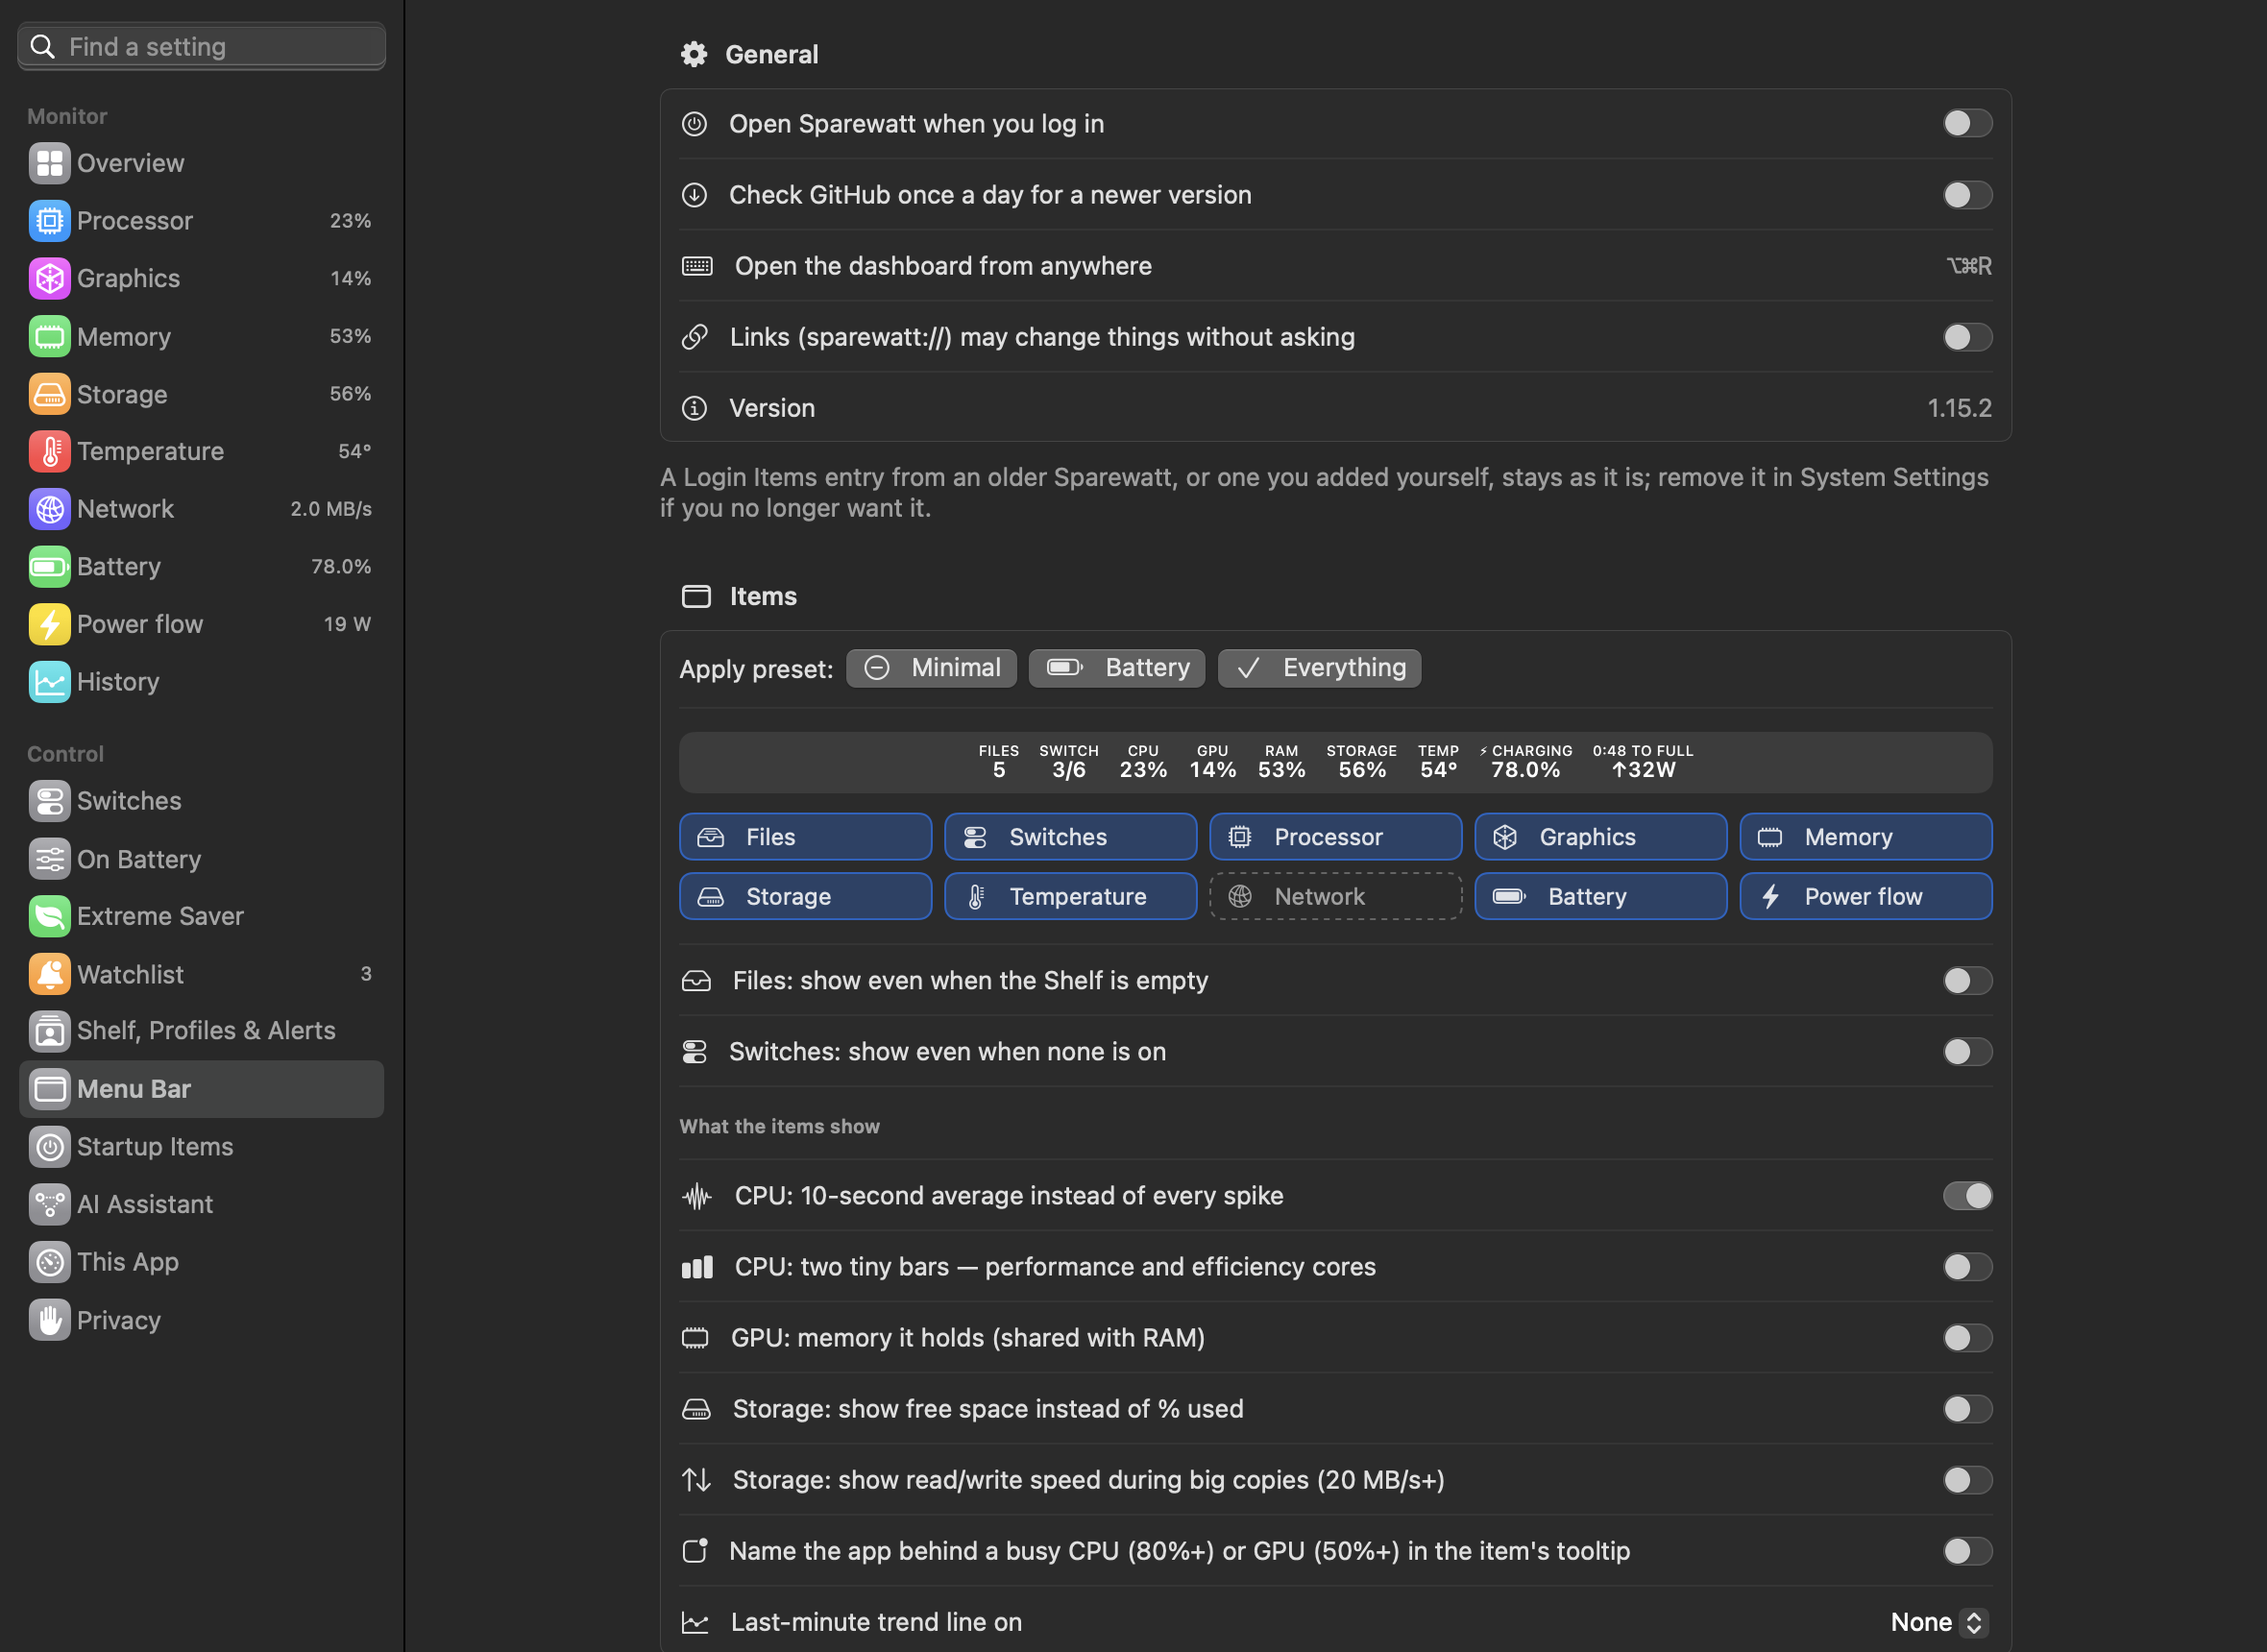
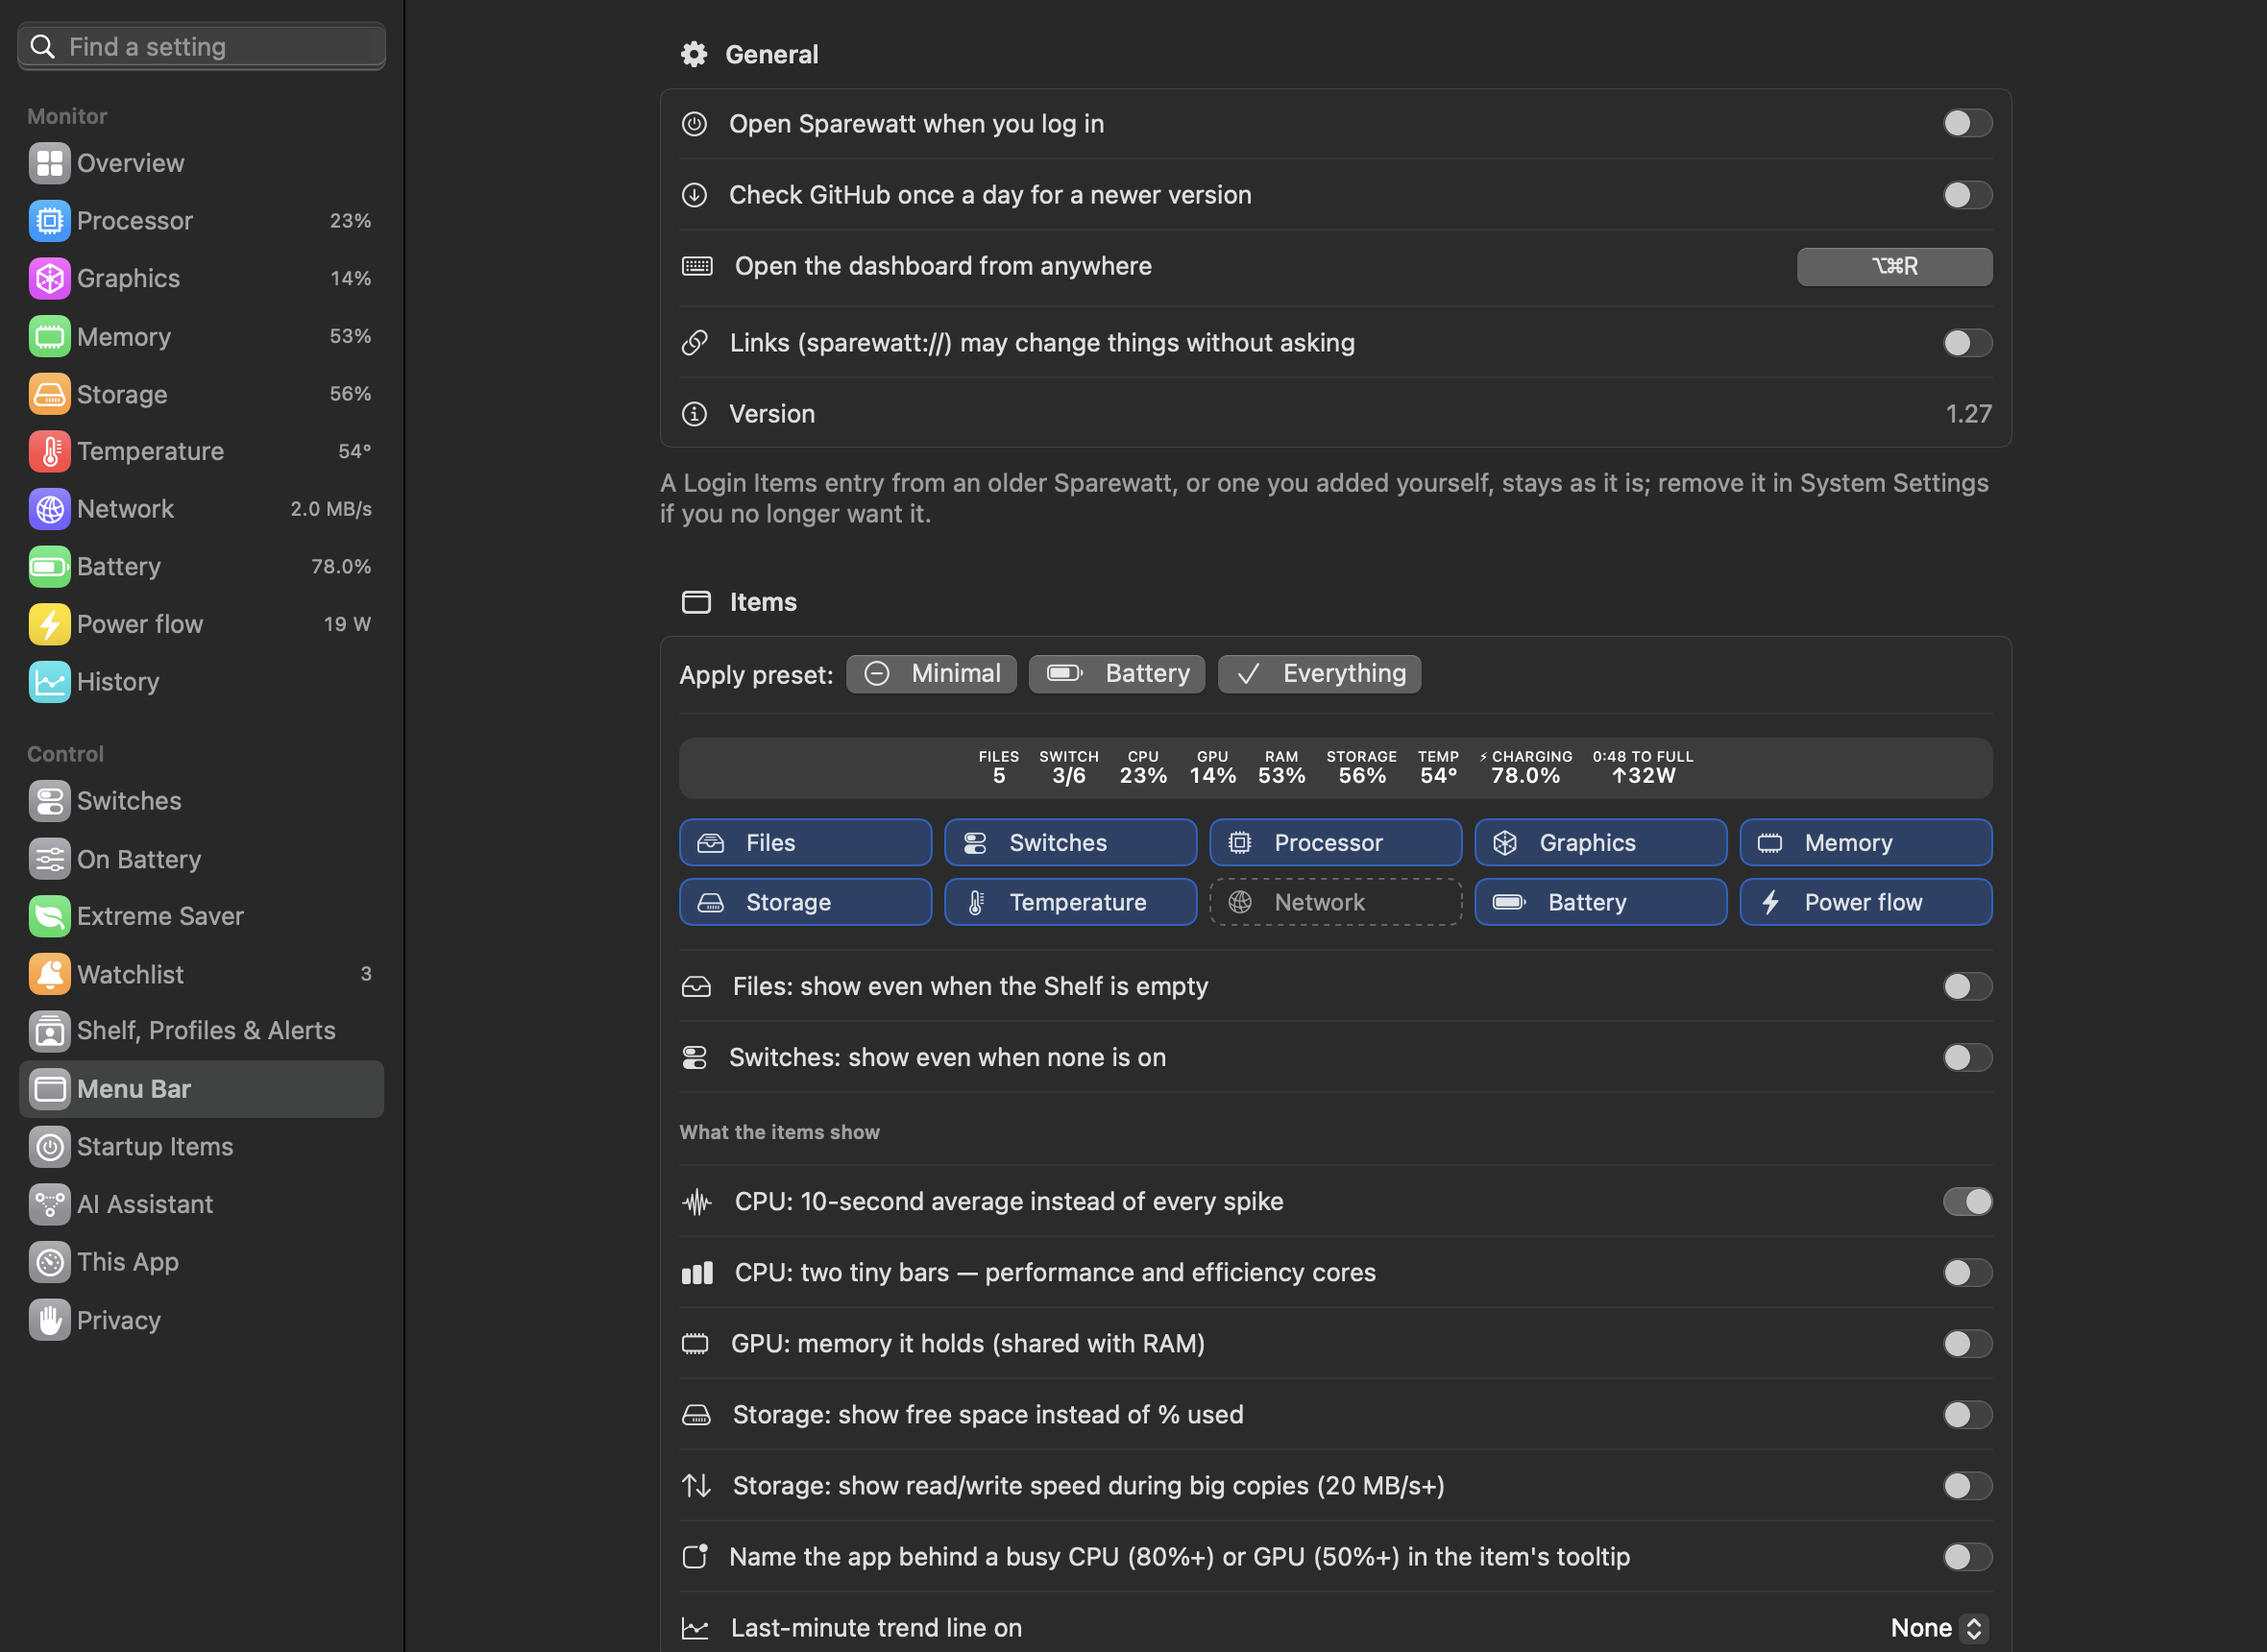
Sparewatt 1.27: Keyboard shortcuts you can change (how to record, turn off and reset; which keys are refused and why); Menu Bar General row, Controls guide, READMEs and changelog; Menu Bar page image

diff --git a/reference/Keyboard shortcuts.md b/reference/Keyboard shortcuts.md
@@ -1,6 +1,6 @@
 # Keyboard shortcuts
 
-These work from any app.
+These work from any app. They are the defaults: you can change each one, or turn it off.
 
 | Keys | Does |
 |---|---|
@@ -8,10 +8,28 @@ These work from any app.
 | ⌥⌘V | open the Files panel (Latest File, Shelf, clipboard) |
 | ⌥⌘E | turn Extreme Saver on or off (not on a Mac with no battery) |
 
-The same list is on Dashboard → **Shelf, Profiles & Alerts**.
+## Changing them
+
+Dashboard → **Shelf, Profiles & Alerts** → *Keyboard shortcuts* lists all three; the dashboard's is also on Dashboard →
+**Menu Bar** → *General*.
+
+- Click a shortcut, then press the new keys. **Esc** cancels; **Delete** turns that shortcut off (it then reads *Off*).
+- The arrow beside a changed shortcut puts back its default.
+- A shortcut needs **⌥** or **⌃** (or **⌘⇧** together), so it doesn't take a key you type or an app's own menu
+  command. A function key (F1–F20) may be used on its own.
+- Keys macOS itself uses are refused, with the reason: screenshots (⌘⇧3 to ⌘⇧6), Lock Screen (⌃⌘Q), Emoji & Symbols
+  (⌃⌘Space), switching input sources (⌃Space, ⌃⌥Space), Force Quit (⌥⌘Esc), the Dock (⌥⌘D), the Help menu (⌘⇧/),
+  Mission Control and Spaces (⌃ with an arrow). So is a shortcut another of Sparewatt's already uses.
+- If macOS doesn't accept a shortcut (another app may already have it), Sparewatt says so and keeps the old one.
+
+While you are pressing new keys, none of Sparewatt's shortcuts fire. The shortcuts are part of the
+[settings export](../features/11%20Dashboard%2C%20history%20and%20this%20app.md#your-settings-export-import-welcome-again),
+so an imported file brings its shortcuts with it. They need no permission in System Settings.
+
+## Other keys
 
 In the menu bar: hover a part to open its panel, right-click for the dashboard, settings, Extreme Saver and Quit.
 With grouping off, hold ⌘ and drag an item to move it.
 
-To run these from Shortcuts, a script or your own key combination, use
+To run these from Shortcuts or a script, use
 [links for Shortcuts and scripts](Links%20for%20Shortcuts%20and%20scripts.md) (`sparewatt://…`).

diff --git a/features/01 Menu bar.md b/features/01 Menu bar.md
@@ -159,7 +159,7 @@ Dashboard → **Menu Bar** has six sections, each one kind of setting:
 
 | Section | Holds |
 |---|---|
-| General | *Open Sparewatt when you log in*, the daily update check, the ⌥⌘R shortcut, the version |
+| General | *Open Sparewatt when you log in*, the daily update check, the dashboard's [shortcut](../reference/Keyboard%20shortcuts.md) (⌥⌘R unless you change it), the version |
 | Items | *Apply preset*, which items show, and what each item shows (CPU average, graphics memory, free space, trend line…) |
 | Look | grouping, the outline, words or icons, text size, update speed |
 | Colours | drain colours, colours by value, and storage turning orange when memory spills to the SSD |
@@ -305,7 +305,7 @@ screen, or not shown by macOS) and a button that opens System Settings → Menu 
 
 **What it has.**
 - *Update available…* (only when an update was found)
-- *Open Dashboard (⌥⌘R)*
+- *Open Dashboard (⌥⌘R)*: it shows your shortcut if you changed it, and none if you turned it off
 - *Settings…* (opens the dashboard on **On Battery**)
 - *Turn Extreme Saver On / Off*
 - *Keep Awake*: for a length, *Until* a time, *While an App Runs*, *Until I Turn It Off*, and *Keep the Screen On Too*;

diff --git a/features/README.md b/features/README.md
@@ -86,6 +86,7 @@ answers three questions from the menu bar:
 | `sparewatt://` links | drive Sparewatt from Shortcuts and scripts | Extreme Saver, energy modes, panels, Switches in one step | [Links for Shortcuts and scripts](../reference/Links%20for%20Shortcuts%20and%20scripts.md) |
 | AI Assistant (MCP server) | let Claude Code, Codex, Cursor or any MCP app read the readings | ask "why?" in plain words, answered from live data | [AI Assistant](12%20AI%20Assistant.md) |
 | Reading values in Shortcuts | a local address that Shortcuts' Get Contents of URL reads: battery %, time left, load and more | automations of your own that act on a reading | [AI Assistant](12%20AI%20Assistant.md#reading-values-in-shortcuts) |
+| Keyboard shortcuts | open the dashboard, open the Files panel, Extreme Saver on/off, from any app | keys of your choice, or none if they clash with another app | [Keyboard shortcuts](../reference/Keyboard%20shortcuts.md) |
 
 ## Use cases: which features help when
 

diff --git a/CHANGELOG.md b/CHANGELOG.md
@@ -2,6 +2,13 @@
 
 What changed in Sparewatt, newest first, in plain words. Dates are when the change was made.
 
+## 2026-11-22 — Sparewatt 1.27
+
+- **Keyboard shortcuts you can change:** ⌥⌘R (dashboard), ⌥⌘V (Files panel) and ⌥⌘E (Extreme Saver) can each be set
+  to other keys or turned off, on Dashboard → Shelf, Profiles & Alerts → *Keyboard shortcuts*: click one and press the
+  new keys ([more](reference/Keyboard%20shortcuts.md#changing-them)). Keys macOS uses, or that another of Sparewatt's
+  shortcuts has, are refused with the reason; the right-click menu and the welcome window show your shortcut.
+
 ## 2026-11-22 — Sparewatt 1.26
 
 Released as [Sparewatt 1.26](https://github.com/MShirazAhmad/Sparewatt-docs/releases/tag/v1.26-2026-11-22).

diff --git a/README.md b/README.md
@@ -81,6 +81,7 @@ catalogue and everyday scenarios ("a full day on battery", "the battery drops ov
 | Widgets for the desktop and Notification Center: Battery, and Mac at a glance | [Widgets](features/11%20Dashboard%2C%20history%20and%20this%20app.md#widgets) |
 | AI Assistant: an MCP server for Claude Code, Codex and other assistants | [AI Assistant](features/12%20AI%20Assistant.md) |
 | Reading values in Shortcuts: battery %, time left and more for your own automations | [AI Assistant](features/12%20AI%20Assistant.md#reading-values-in-shortcuts) |
+| Keyboard shortcuts that work from any app, each one changeable or off | [Keyboard shortcuts](reference/Keyboard%20shortcuts.md) |
 
 ## Guide
 

diff --git a/guide/04 Controls.md b/guide/04 Controls.md
@@ -60,7 +60,8 @@ energy — by default only on battery.
 ## Shelf, Profiles & Alerts
 
 One page for the profiles' names, icons and choices, the Shelf's options, quiet hours, the low-storage and "busy with no
-window" alerts, and the list of keyboard shortcuts.
+window" alerts, and the keyboard shortcuts, each of which you can change or turn off
+([how](../reference/Keyboard%20shortcuts.md#changing-them)).
 
 ## Switches
 
